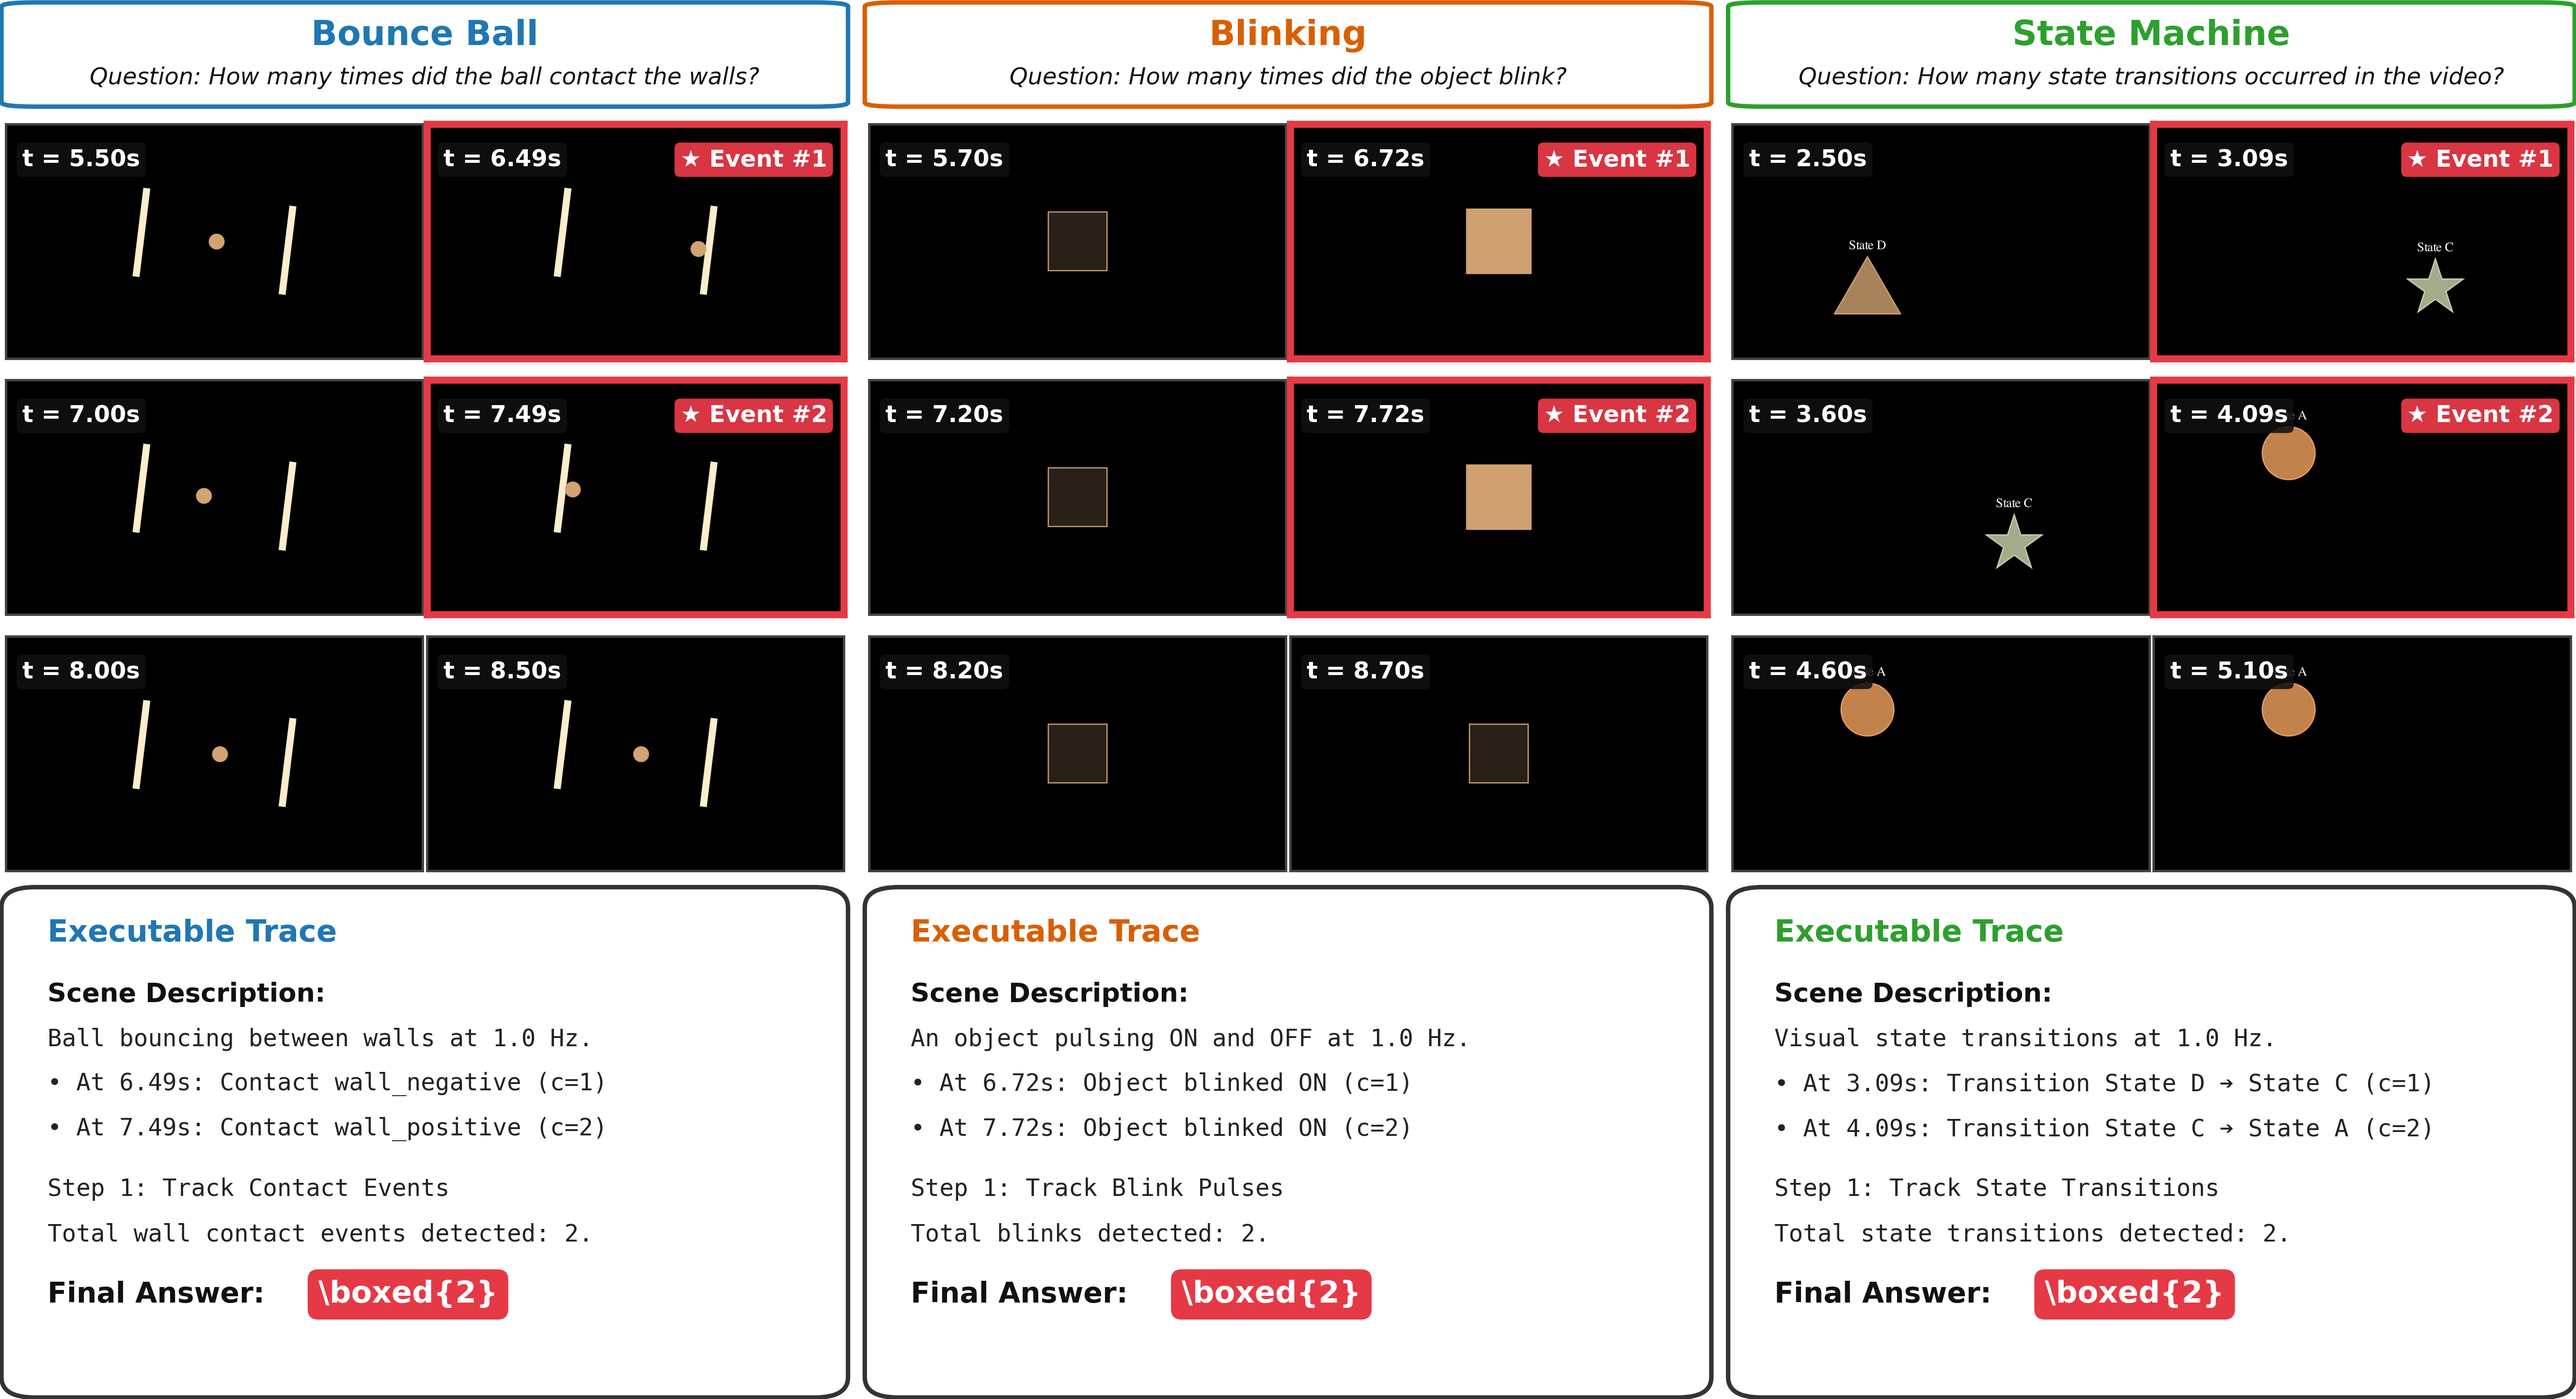
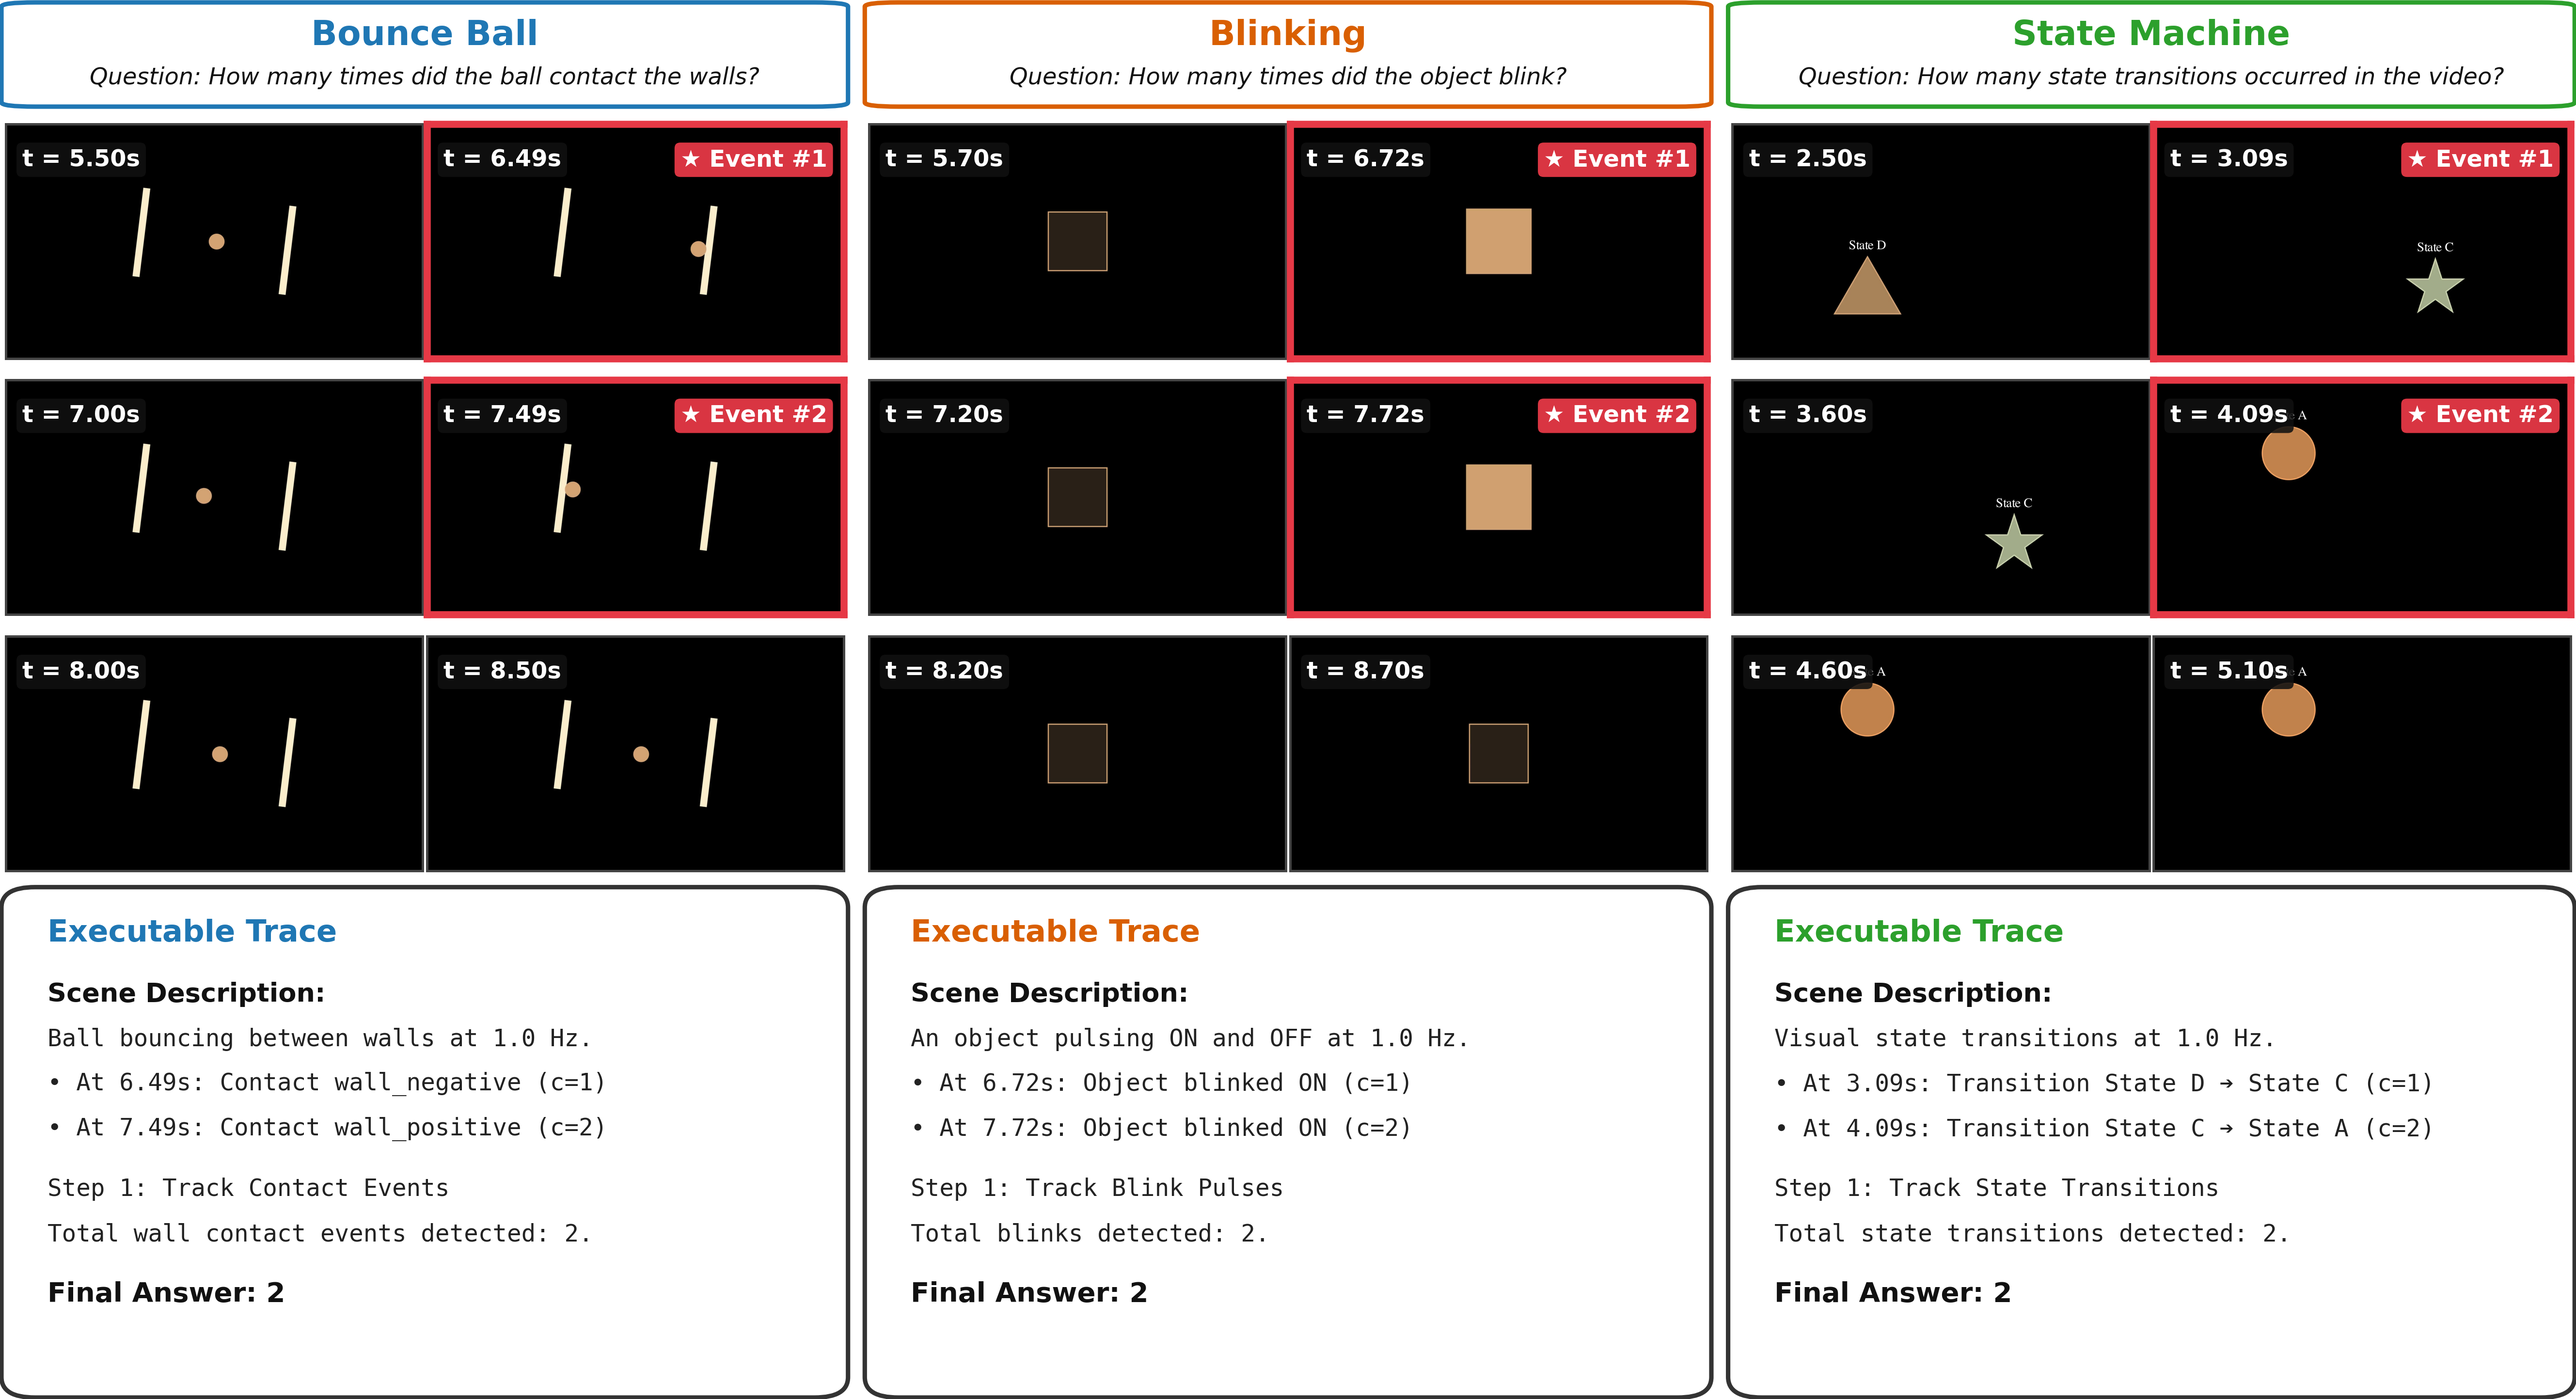
Replace boxed LaTeX answer highlight with plain bold 'Final Answer: 2'

Changed region(s): [[0.6871, 0.9041, 0.8745, 0.9664], [0.3748, 0.9041, 0.531, 0.9664], [0.0312, 0.9041, 0.2186, 0.9664]]

diff --git a/scripts/make_dataset_overview_figure.py b/scripts/make_dataset_overview_figure.py
@@ -51,7 +51,7 @@ def build_dataset_overview_figure(output_path: Path):
                 "Step 1: Track Contact Events",
                 "Total wall contact events detected: 2.",
                 "",
-                "Final Answer:  \\boxed{2}"
+                "Final Answer: 2"
             ]
         },
         {
@@ -70,7 +70,7 @@ def build_dataset_overview_figure(output_path: Path):
                 "Step 1: Track Blink Pulses",
                 "Total blinks detected: 2.",
                 "",
-                "Final Answer:  \\boxed{2}"
+                "Final Answer: 2"
             ]
         },
         {
@@ -89,7 +89,7 @@ def build_dataset_overview_figure(output_path: Path):
                 "Step 1: Track State Transitions",
                 "Total state transitions detected: 2.",
                 "",
-                "Final Answer:  \\boxed{2}"
+                "Final Answer: 2"
             ]
         }
     ]
@@ -98,7 +98,6 @@ def build_dataset_overview_figure(output_path: Path):
     plt.rcParams["figure.facecolor"] = "white"
     plt.rcParams["axes.facecolor"] = "white"
 
-    # Widescreen layout with ultra-tight spacing between columns and vertical sections
     fig = plt.figure(figsize=(18, 9.8), dpi=300, facecolor="white")
     col_gs = gridspec.GridSpec(1, 3, figure=fig, wspace=0.03, left=0.01, right=0.99, top=0.99, bottom=0.01)
 
@@ -182,11 +181,8 @@ def build_dataset_overview_figure(output_path: Path):
                 ax_trace.text(0.05, y_pos, line, transform=ax_trace.transAxes,
                               fontsize=13.0, fontweight="bold", color="#111111", va="center")
             elif line.startswith("Final Answer:"):
-                ax_trace.text(0.05, y_pos, "Final Answer:", transform=ax_trace.transAxes,
-                              fontsize=14.0, fontweight="bold", color="#111111", va="center")
-                ax_trace.text(0.48, y_pos, "\\boxed{2}", transform=ax_trace.transAxes,
-                              fontsize=15.0, fontweight="bold", color="white", va="center", ha="center",
-                              bbox=dict(boxstyle="round,pad=0.35", facecolor="#e63946", edgecolor="none"))
+                ax_trace.text(0.05, y_pos, line, transform=ax_trace.transAxes,
+                              fontsize=13.5, fontweight="bold", color="#111111", va="center")
             else:
                 ax_trace.text(0.05, y_pos, line, transform=ax_trace.transAxes,
                               fontsize=11.8, color="#222222", fontfamily="monospace", va="center")
